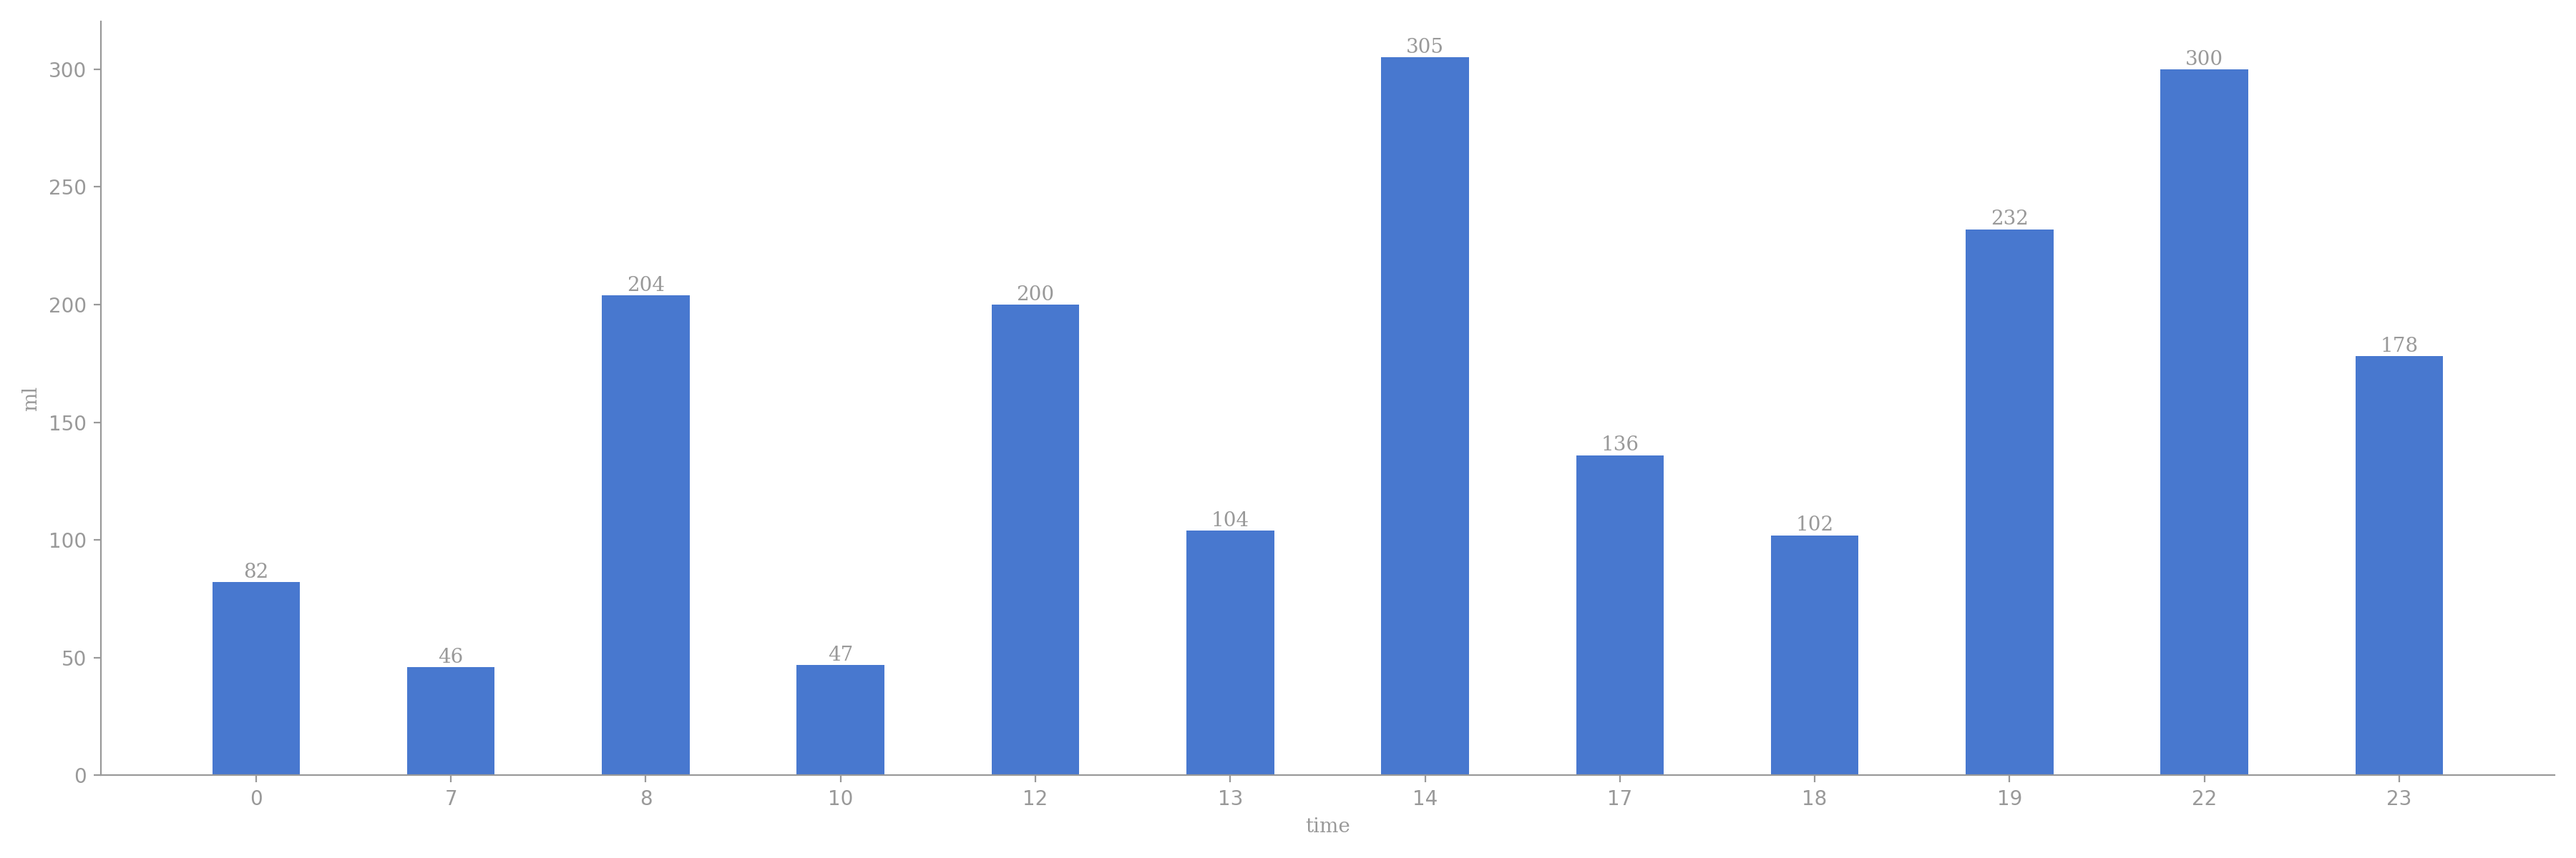
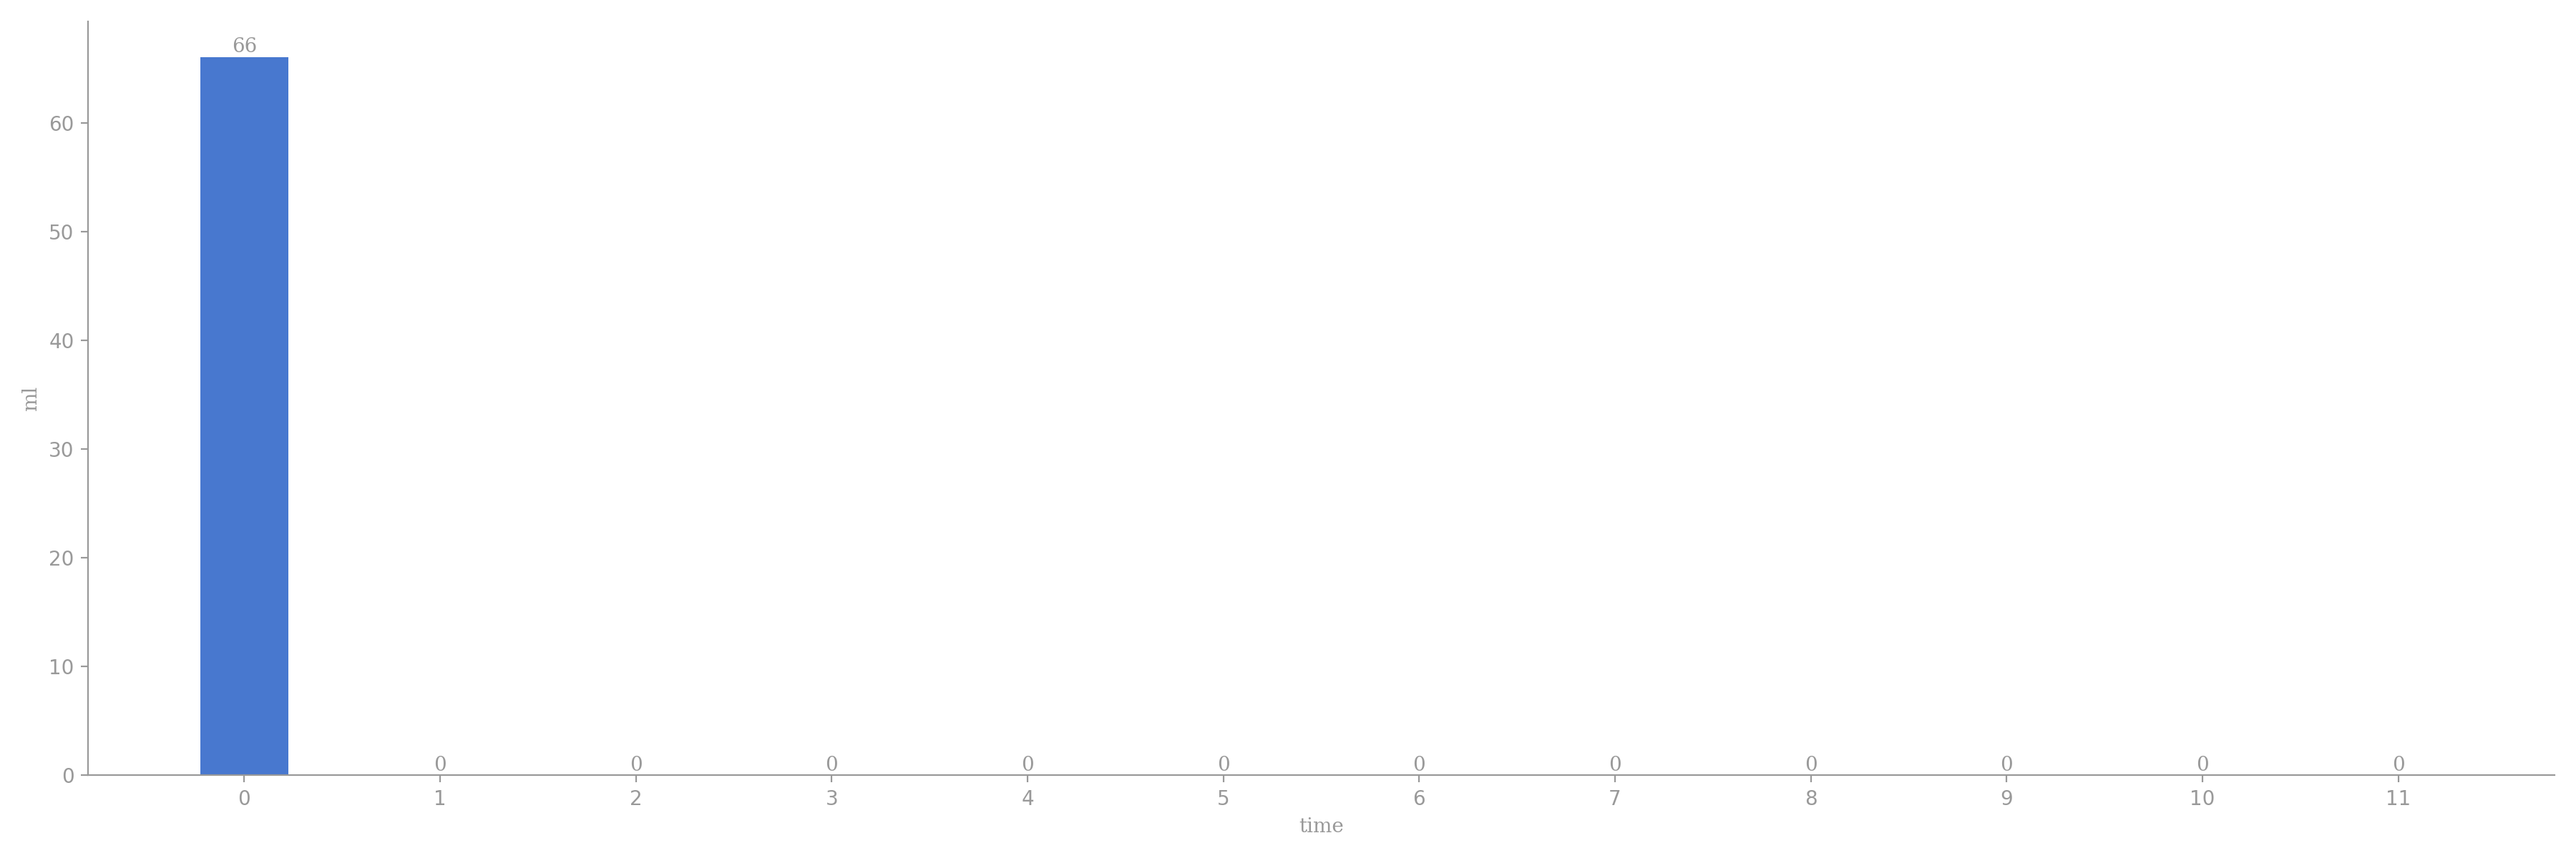
crontab auto git

diff --git a/README.md b/README.md
@@ -1,3 +1,17 @@
+# 今日饮水数据
+
+<div align=center>
+<img src="today.png" style="zoom: 100%;" />
+
+| 今日总饮水量 | 每小时平均饮水量 |
+| :----: | :----: |
+| 66 | 66 |
+</div>
+
+| 日期 | 00:25:47 |
+| :----: | :----: |
+| 2026-02-05 | 66 |
+
 # 近30日饮水数据
 
 <div align=center>
